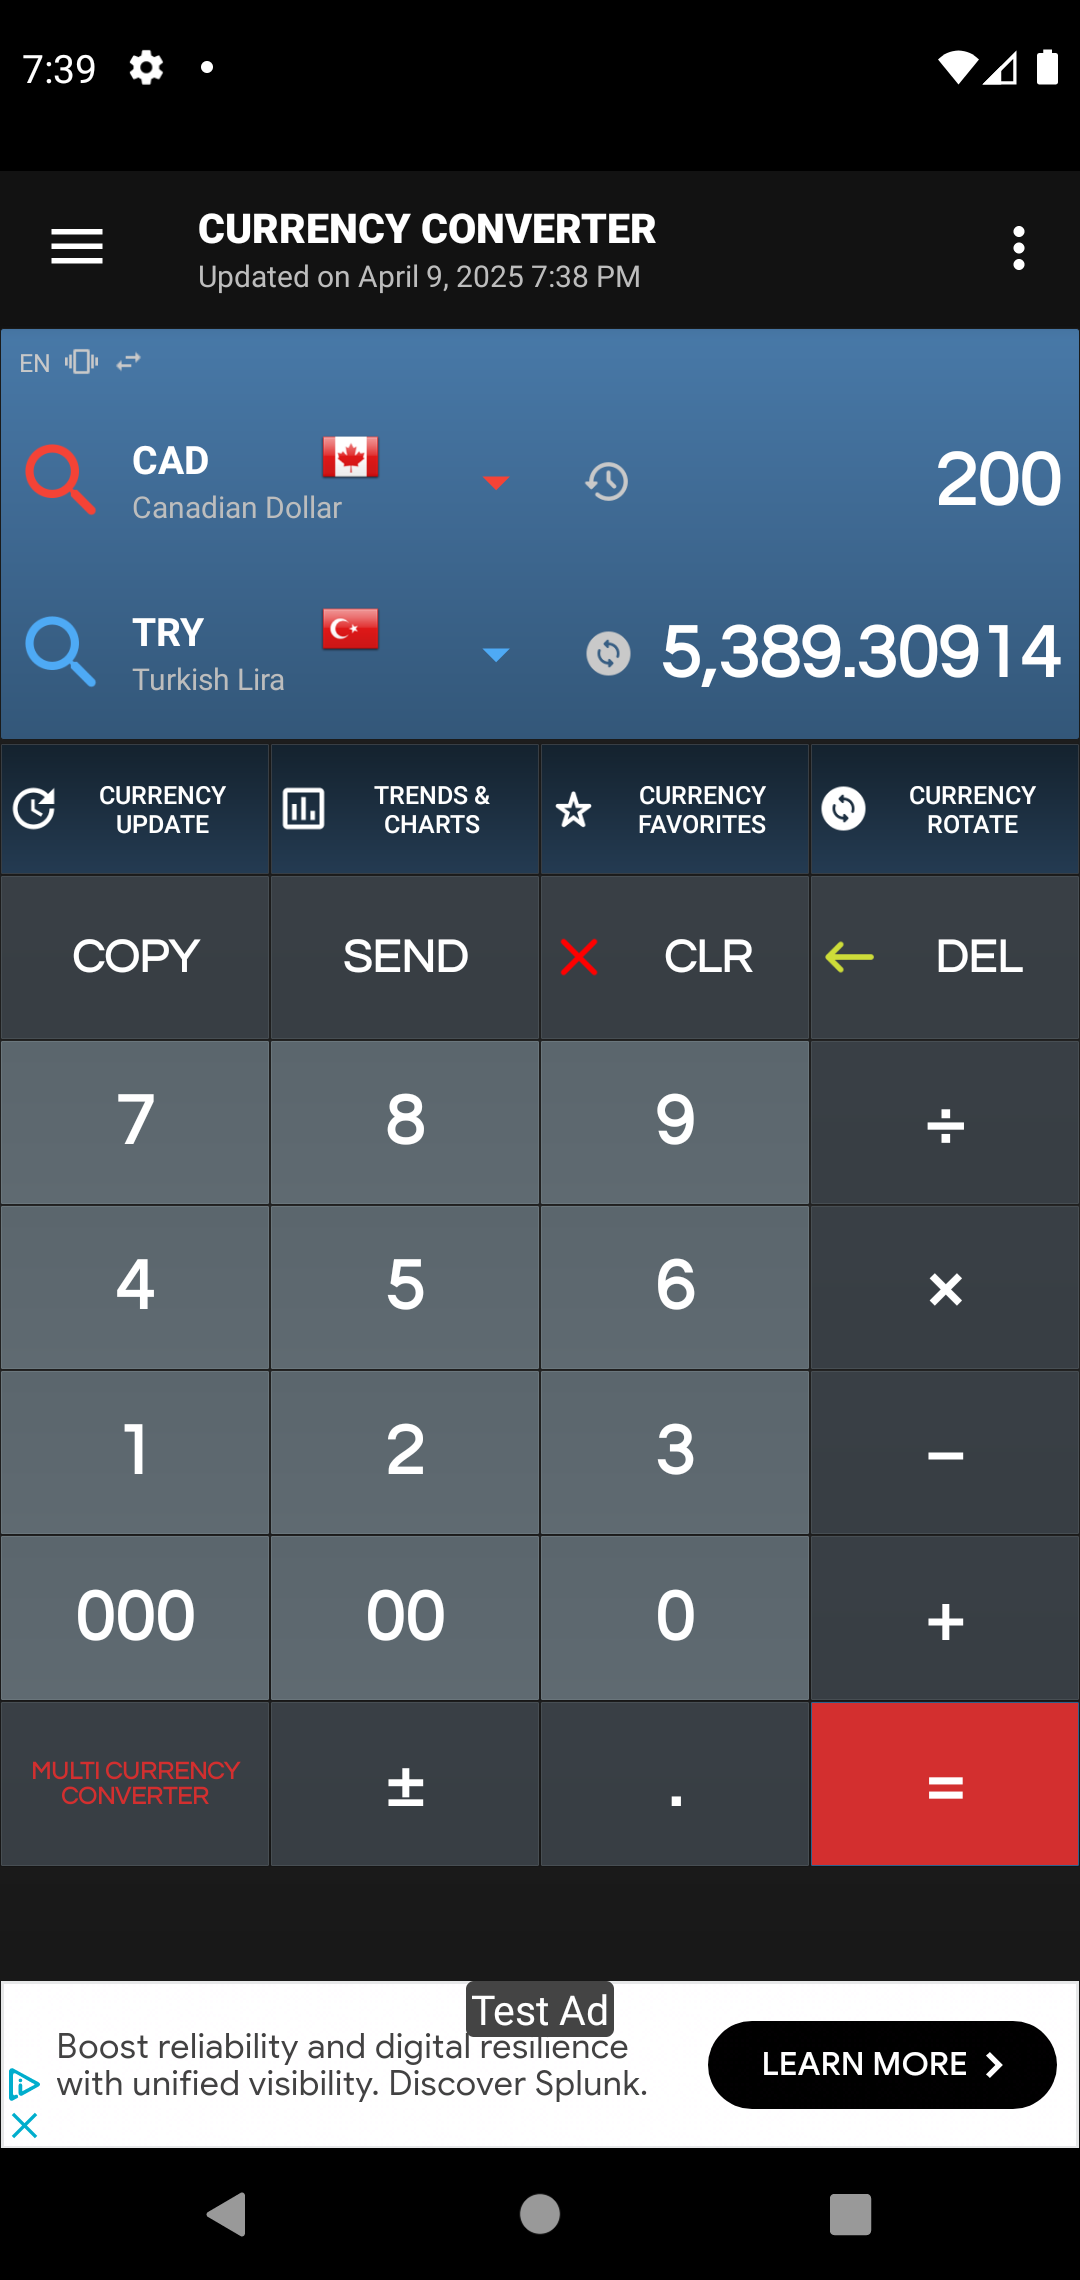
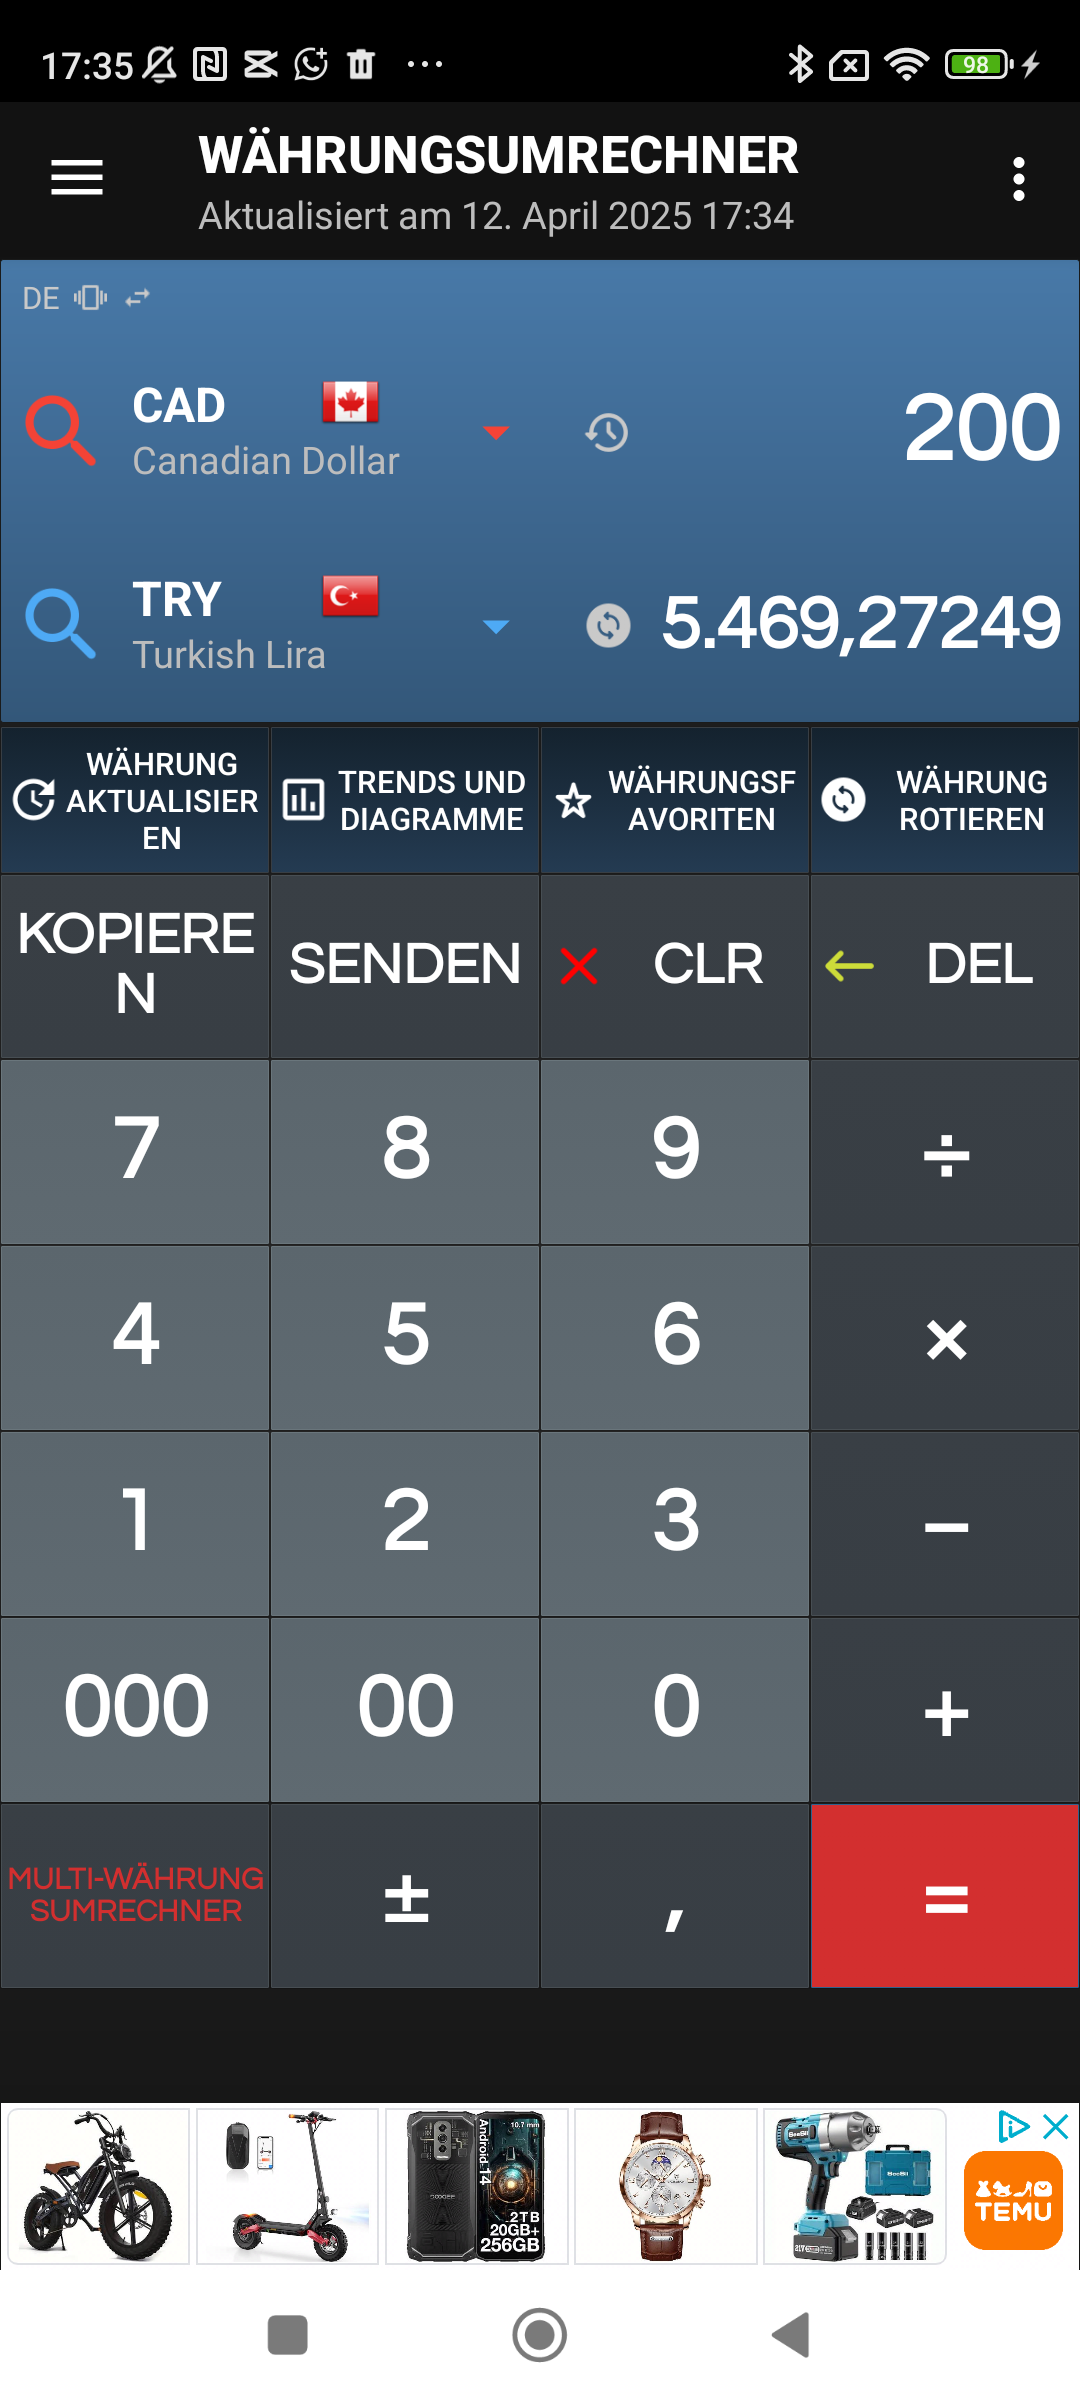
12.04 v1

diff --git a/src/test/java/tests/day04/AllCurrency.java b/src/test/java/tests/day04/AllCurrency.java
@@ -24,7 +24,11 @@ public class AllCurrency {
 
      // Uygulamanin acildigi dogrulanir
         Assert.assertTrue(page.uygulamaAdi.isDisplayed());
-        //Assert.assertTrue(driver.findElementByXPath("//*[@text='CURRENCY CONVERTER']").isDisplayed());
+       // Assert.assertTrue(driver.findElementByXPath("//*[@text='CURRENCY CONVERTER']").isDisplayed());
+        /*
+       // Assert.assertTrue(driver.findElementByXPath("//*[@text='WÄHRUNGSUMRECHNER']").isDisplayed());
+        Gercek telefonun dili Almanca oldugu icin Almanca text almak gerekti
+         */
 
      // Cevirmek istedigimiz para birimi Kanada dolari olarak secilir
         ReusableMethods.koordinatTiklamaMethodu(350,450,500);
